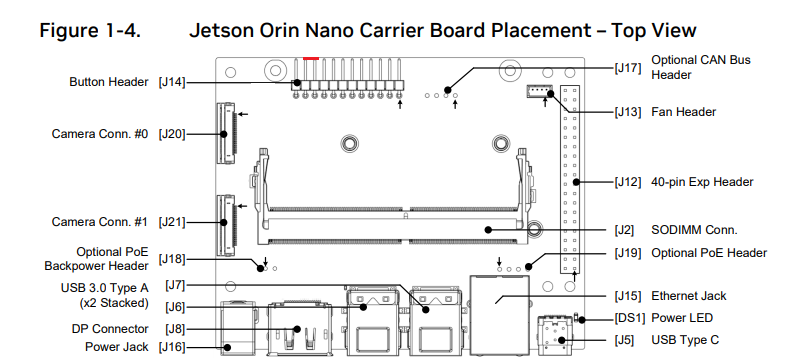
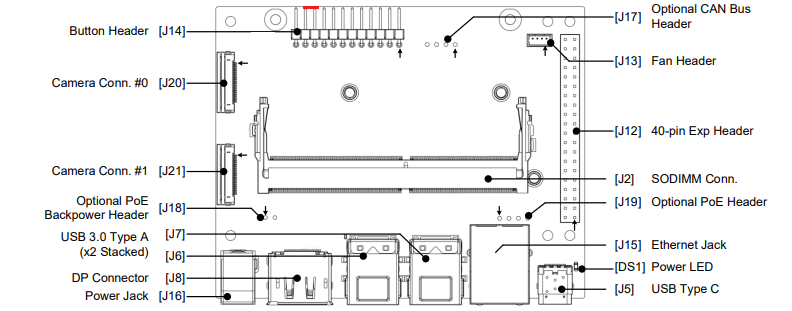
minor touch ups

Changed region(s): [[0.0303, 0.0, 0.9697, 1.0], [0.5455, 0.2315, 0.5758, 0.2894], [0.4242, 0.3762, 0.4545, 0.4341]]

diff --git a/Lab 11 - Hardware Experiment - 4/pages/Ch2.md b/Lab 11 - Hardware Experiment - 4/pages/Ch2.md
@@ -36,7 +36,7 @@ sudo apt-get install qemu-user-tools
 ```bash
 sudo apt-get install libxml2-utils
 ```
----
+
 
 ## 2. Download Jetson Linux r36.4.3 (BSP + RootFS)
 
@@ -52,7 +52,7 @@ wget https://developer.nvidia.com/downloads/embedded/l4t/r36_release_v4.3/releas
 
 > You must be logged into your NVIDIA Developer account and have accepted the Jetson Linux license agreement, otherwise these downloads will fail or redirect to an authentication page.
 
----
+
 
 ## 3. Extract BSP and Populate RootFS
 
@@ -66,7 +66,7 @@ sudo ./apply_binaries.sh
 
 At this stage, the Jetson Linux BSP and Ubuntu root filesystem are fully assembled and ready for source synchronization and OP-TEE integration.
 
----
+
 
 ## 4. Sync Sources to Receive Proper OPTEE-Build Files
 
@@ -110,7 +110,6 @@ find . -maxdepth 4 -iname "*optee*" | head -n 50
 Example Output:
 ![img_3.png](img_3.png)
 
----
 
 ## 5. Build OP-TEE with fTPM enabled
 In the NVIDIA OP-TEE source tree synced via source_sync.sh, the correct build driver is optee_src_build.sh. This script is required for building OP-TEE with NVIDIA-specific integrations.
@@ -156,9 +155,9 @@ ls -lah ~/Linux_for_Tegra/source/tegra/optee-src/nv-optee/optee/build/t234/core/
 # Check for tee.elf
 ls -lah ~/Linux_for_Tegra/source/tegra/optee-src/nv-optee/optee/build/t234/core/tee.elf
 ```
+Example Output:
 ![img_4.png](img_4.png)![img_5.png](img_5.png)
 
----
 
 ## 6. Copy the built OP-TEE core (tee.bin) into the BSP Bootloader folder
 
@@ -175,9 +174,9 @@ cp -av source/tegra/optee-src/nv-optee/optee/build/t234/core/tee.bin bootloader/
 # verify
 ls -lah bootloader/tee.bin
 ```
+Example Output:
 ![img_7.png](img_7.png)
 
----
 
 ## 7. fTPM System and File Check
 
@@ -199,7 +198,7 @@ find ~/Linux_for_Tegra/source/tegra/optee-src/nv-optee/optee/install/t234 \
 ```
 See if any tpm or ftpm related files are displayed after this command is used.
 
----
+
 ## A-8. Copy the second part of the built OP-TEE core (tee.elf) into the BSP Bootloader folder
 
 Confirm that the tee.elf and tee.bin exist:
@@ -215,7 +214,7 @@ Copy the `tee.elf` file into the BSP `bootloader` directory. This ELF image is r
 cp -av ~/Linux_for_Tegra/source/tegra/optee-src/nv-optee/optee/build/t234/core/tee.elf bootloader/tee.elf
 ```
 
----
+
 ## 9. Find the TrustZone Application (TA)
 
 Confirm that the fTPM TrustZone Application (TA) and supporting binaries were generated as part of the OP-TEE build and install process.
@@ -251,6 +250,7 @@ done
 
 Example Output:
 ![img_2.png](img_2.png)
+<p align="center">Figure 2.5: Confirmed Displayed Output from Script Execution to find TA file.</p>
 
 Example Output:
 **MATCH: bc50d971-d4c9-42c4-82cb-343fb7f37896.ta**
@@ -267,9 +267,9 @@ ls -lah ~/nvidia/Linux_for_Tegra/source/tegra/optee-src/nv-optee/optee/install/t
 ```bash
 sudo find ~/nvidia/Linux_for_Tegra/rootfs -type d -iname "optee_armtz" -print
 ```
+Example Output:
 ![img_8.png](img_8.png)
 
----
 
 ## 10. Copy the TrustZone Application (TA) and Helper App to Optee_armtz
 
@@ -290,5 +290,5 @@ Copy the nvftpm-helper-app into the target root filesystem. This userspace helpe
 ```bash
 sudo cp -av ~/Linux_for_Tegra/source/tegra/optee-src/nv-optee/optee/install/t234/usr/sbin/nvftpm-helper-app ~/Linux_for_Tegra/rootfs/usr/sbin/
 ```
-
+Example Output:
 ![img_9.png](img_9.png)

diff --git a/Lab 11 - Hardware Experiment - 4/pages/Ch3.md b/Lab 11 - Hardware Experiment - 4/pages/Ch3.md
@@ -5,7 +5,11 @@
 Main Steps to Enter Force Recovery Mode:
 1. Power Off: Ensure the Jetson Orin Nano is completely disconnected from power.
 2. Bridge Pins: Locate the J14 header (button header) on the carrier board. Place a 2.54mm jumper cap across pin 9 (FC_REC) and pin 10 (GND).
-![img_12.png](img_12.png)![img_13.png](img_13.png)
+
+![img_12.png](img_12.png)
+![img_13.png](img_13.png)
+<p align="center">Jetson Orin Nano Carrier Board Placement - Top View (Red Line indicated PINS 9 and 10)</p>
+
 3. Connect Power: Connect the power supply to the developer kit.
 4. Verify: Connect the USB-C port that is capable of data transfer to your Linux host PC (USB-A to USB-C is recommended, especially when using virtual machines). Run `lsusb` and look for `0955:7xxx NVidia Corp` to confirm it is in recovery mode.
 5. Remove Jumper: Once confirmed, you can remove the jumper. 
@@ -32,7 +36,7 @@ Example: **0955:7523 NVIDIA Corp. APX**
 
 ![img_11.png](img_11.png)
 
----
+
 ## 2. Run Flash Command
 
 Once the Jetson Orin Nano is confirmed to be in recovery mode and detected by the host, navigate to the BSP directory and initiate flashing.
@@ -42,7 +46,6 @@ This flash is performed on an unfused board and is intended to validate OP-TEE a
 cd ~/Linux_for_Tegra
 
 sudo ./flash.sh jetson-orin-nano-devkit mmcblk0p1
-
 ```
 
 Once the Flashing process ends successfully, you will recieve this message:
